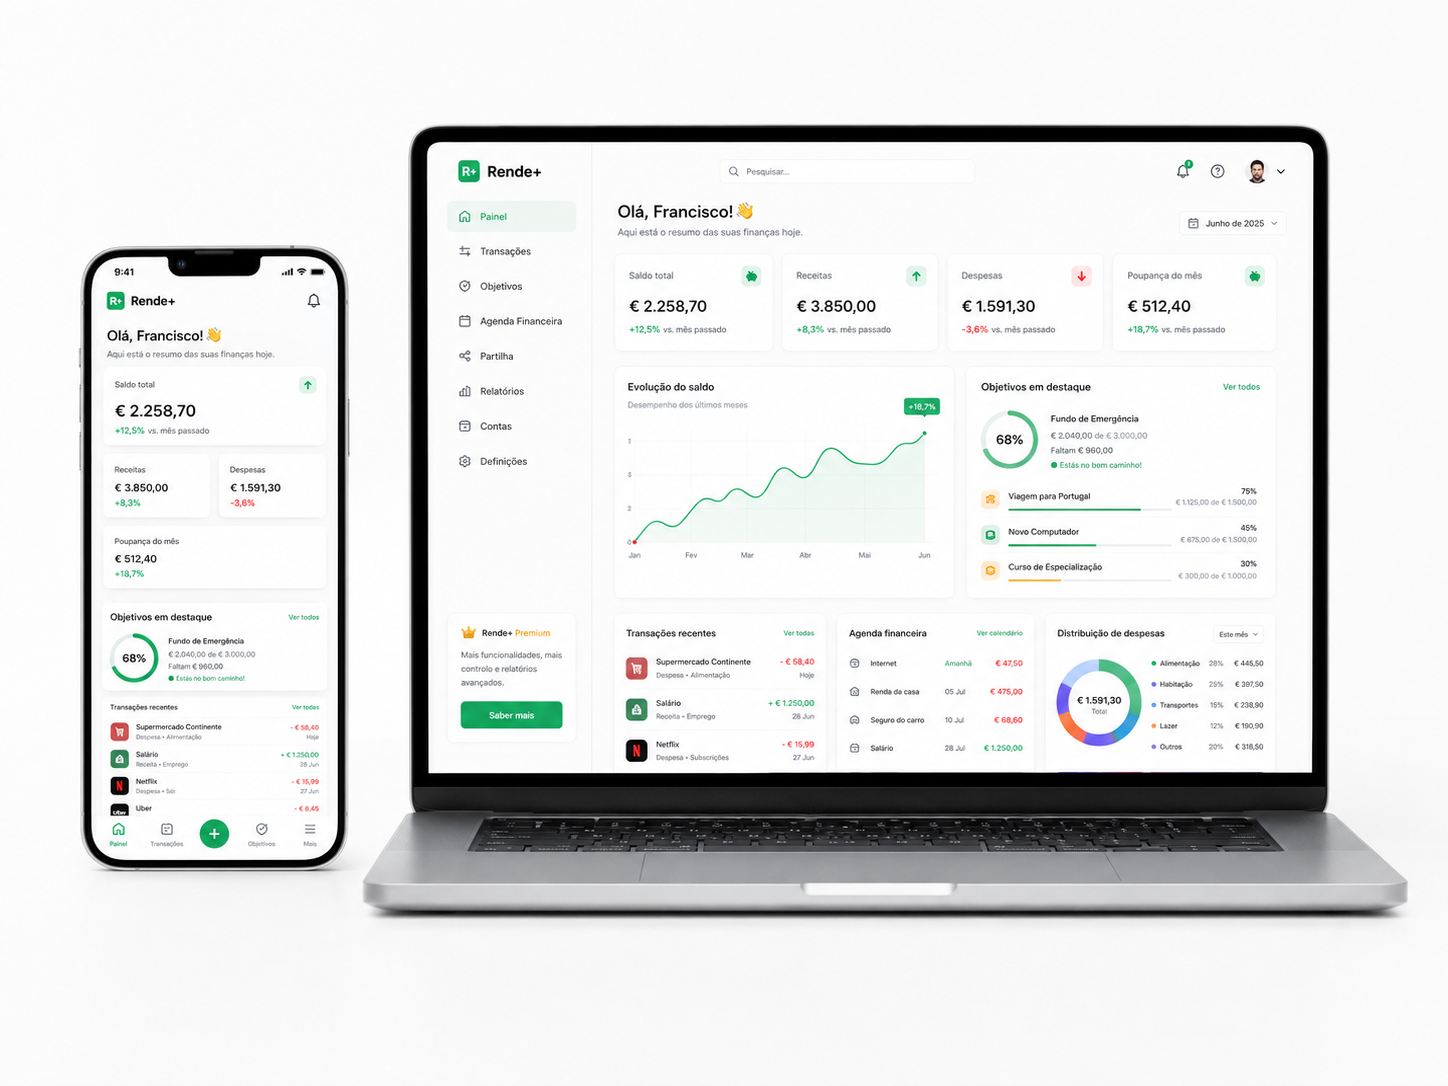
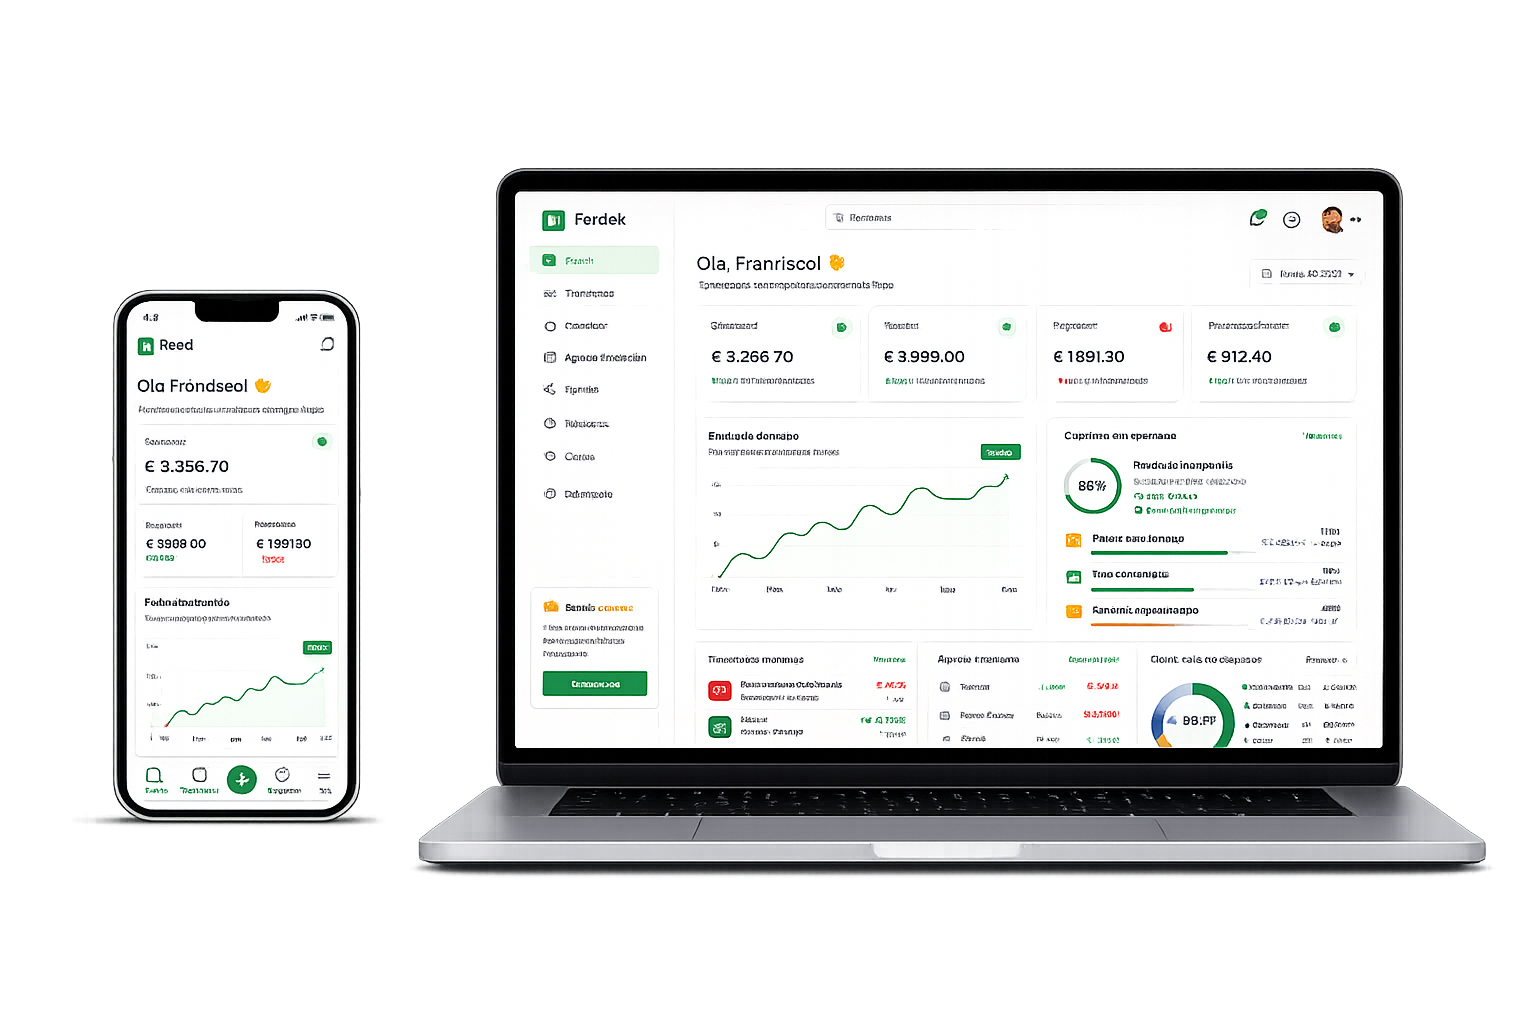
Novas atualizações

diff --git a/assets/js/landing.jsx b/assets/js/landing.jsx
@@ -373,7 +373,7 @@ function Landing({ onCreate, onLogin, theme, setTheme, lang, setLang, tr }) {
 
         <div className="lp2-footer-base lp2-footer-base-center">
           <a href="#" onClick={goTop} style={{ textDecoration: "none", cursor: "pointer" }} aria-label="Ir para o topo"><Brand size={26} /></a>
-          <span className="muted tiny" style={{ fontWeight: 600 }}>© {new Date().getFullYear()} Rende+ · Feito em Portugal</span>
+          <span className="muted tiny" style={{ fontWeight: 600 }}>© {new Date().getFullYear()} Rende+ · O seu dinheiro. Os seus objetivos. O seu futuro.</span>
         </div>
       </footer>
     </div>